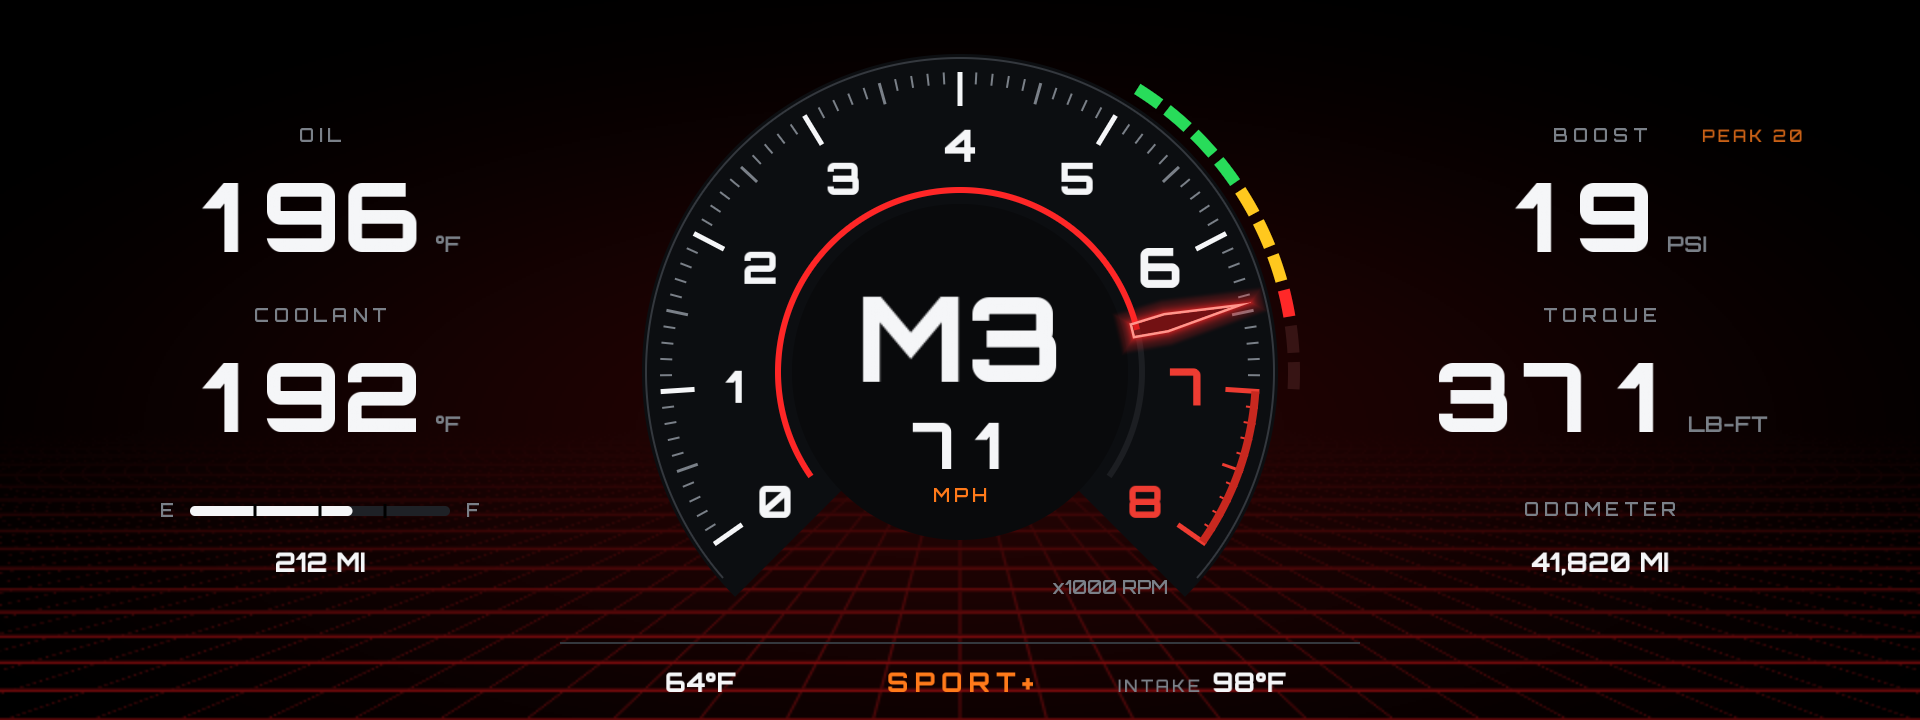
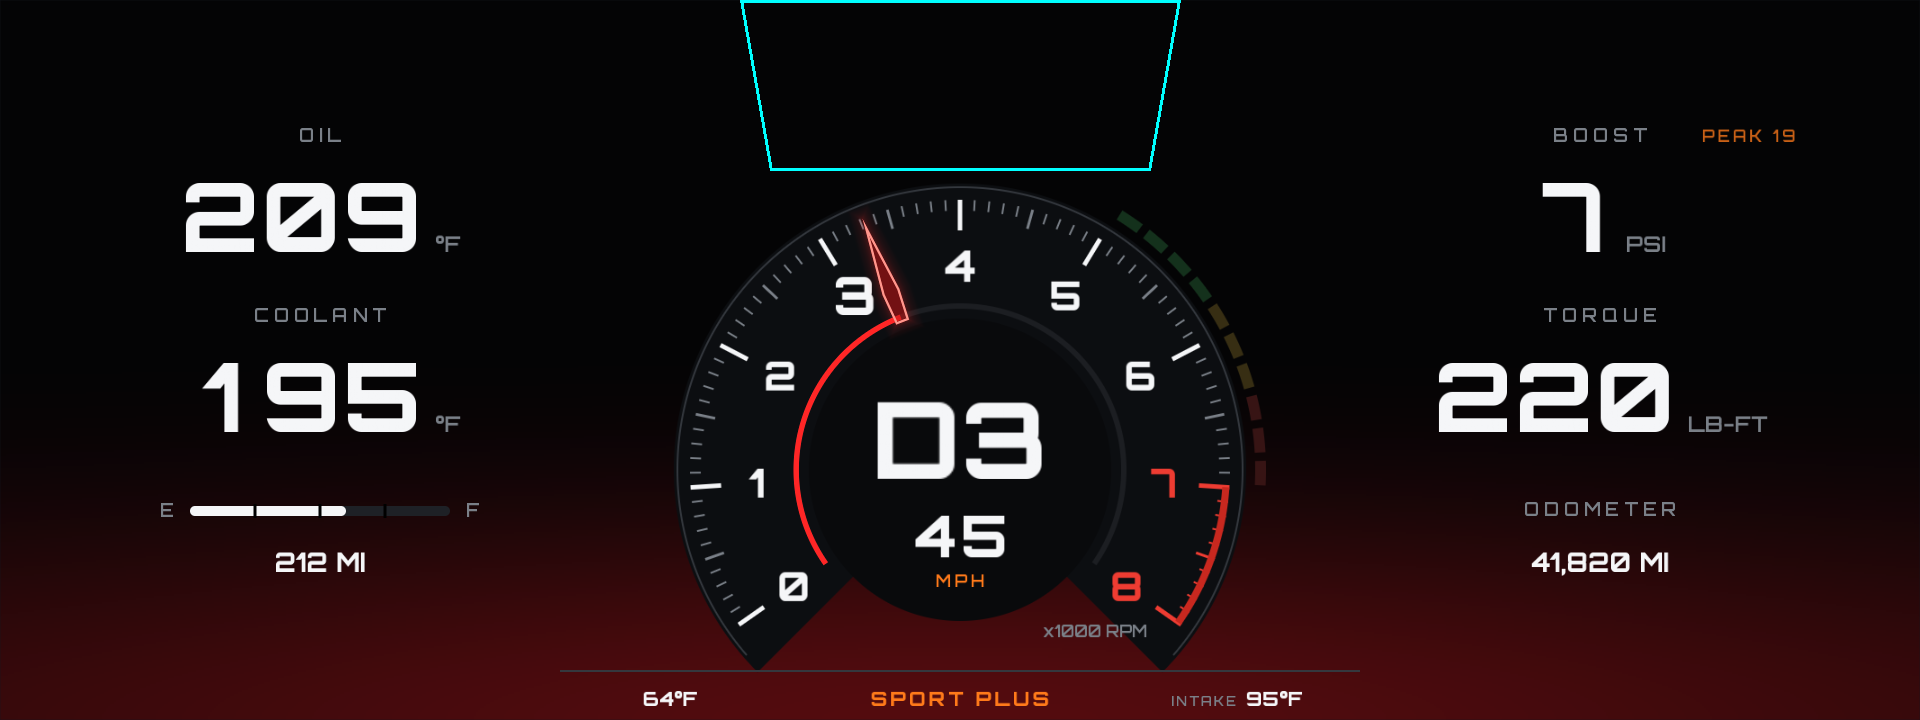
0.12.0: needles glide (renderer animations), shader by default; larger, lower tach clear of the camera; smaller bottom strip
Claude-Session: https://claude.ai/code/session_014iog3VUDnUppvMdVywrbBe

diff --git a/apps/mx_classic_cluster/cluster.js b/apps/mx_classic_cluster/cluster.js
@@ -35,6 +35,11 @@ const FPS = 30;
 const MIN_STEP_DEG = 0.1;
 const LCD_MIN_MS = 200;            // an LCD's text is redrawn at most 5 times a second
 const REDRAW_FPS = 5;              // redrawn mode: dial updates a second at most (each costs CPU)
+/* Smooth motion: the needle's turn (rotating layer) and the shader's u_v are sent as renderer
+ * animations - from where it is to where it is going over ANIM_MS - and the renderer plays them on
+ * the cluster's own clock, every frame. Before 0.12.0 each step was a set / uniform in the renderer's
+ * next flush, and a flush waits for that tick's pixel uploads: the needle moved in jerks. */
+const ANIM_MS = 100;
 const ROTATE_FPS = 15;             // rotating mode (arc): the lit arc / lights / numerals redrawn up to this often; tiny rectangles
 const ROTATE_MIN_DEG = 0.1;        // and the needle layer turned for a move of at least this
 const REDRAW_MIN_DEG = 0.5;        // and none for a smaller move
@@ -452,8 +457,11 @@ class ClassicCluster {
             const lv2 = A.numeralLevels(rpm, d.nums.length);
             const changed = [];
             lv2.forEach((k, i) => { if (k !== d.levels[i]) changed.push(i); });
-            // rotating mode: the needle layer turns every tick (30 a second), a message of a few bytes
-            if (d.needle && Math.abs(a - d.needleAt) >= ROTATE_MIN_DEG) { this.cr.set(d.needle, { rotate: round2(a) }); d.needleAt = a; this.sends++; }
+            // rotating mode: the needle layer glides to where it's going (a renderer animation, ANIM_MS)
+            if (d.needle && Math.abs(a - d.needleAt) >= ROTATE_MIN_DEG && now - (d.needleAnimAt || 0) >= ANIM_MS) {
+                this.glide(d.needle, 'rotate', [round2(d.needleAt)], [round2(a)]);
+                d.needleAt = a; d.needleAnimAt = now; this.sends++;
+            }
             if (this.mode === 'shader') {
                 this.dialState('tach', st, now);
                 if (changed.length && now - d.numAt >= 1000 / 10) {
@@ -500,6 +508,27 @@ class ClassicCluster {
         }
     }
 
+    /**
+     * Move a layer's property from `from` to `to` over ANIM_MS, played by the renderer. One animation
+     * per layer and property, replaced each time (the same number: "sending it again replaces it"), so
+     * a layer never collects more than its 16; the property is also set to `from` first, which is where
+     * it goes back to if an animation is ever dropped.
+     */
+    glide(ref, property, from, to, name) {
+        const cr = this.cr;
+        if (property === 'rotate') cr.set(ref, { rotate: from[0] });
+        else cr.uniform(ref, name, from);
+        const keys = '0:' + from.join(',') + ' ' + ANIM_MS + ':' + to.join(',');
+        this.anims = this.anims || {};
+        const k = ref + ':' + property, n = this.anims[k];
+        const l = cr.layers && cr.layers.get(ref);
+        if (n && l && l.anims && l.anims.has(n)) {
+            const m = Object.assign({}, l.anims.get(n), { keys });
+            l.anims.set(n, m);                       // so a re-publish plays the latest
+            cr._send(m);
+        } else this.anims[k] = cr.animate(ref, { property, name, keys, interp: 'linear' });
+    }
+
     /** A dial's moving parts to a new state: a uniform (shader), or changed rectangles (redrawn). */
     dialState(key, st, now) {
         const d = this.dials[key];
@@ -508,8 +537,12 @@ class ClassicCluster {
         const moved = !o || o.lv !== st.lv || ['a', 'b', 'c'].some((k) => Math.abs(o[k] - st[k]) >= MIN_STEP_DEG);
         if (!moved) return;
         if (this.mode === 'shader') {
-            d.st = st; this.sends++;
-            this.cr.uniform(d.fx, 'u_v', [round2(st.a), round2(st.b), st.lv, round2(st.c)]);
+            if (now - (d.animAt || 0) < ANIM_MS && (!o || o.lv === st.lv)) return;
+            const to = [round2(st.a), round2(st.b), st.lv, round2(st.c)];
+            // from where it is to where it goes; the shift lights' level (z) is not blended: the new one throughout
+            const from = d.uv ? [d.uv[0], d.uv[1], st.lv, d.uv[3]] : to;
+            this.glide(d.fx, 'uniform', from, to, 'u_v');
+            d.uv = to; d.st = st; d.animAt = now; this.sends++;
             return;
         }
         if (now - d.at < 1000 / REDRAW_FPS) return;

diff --git a/apps/mx_classic_cluster/arc.js b/apps/mx_classic_cluster/arc.js
@@ -25,7 +25,7 @@ let fonts, rgba;
 try { fonts = require('./kit/fonts'); ({ rgba } = require('./kit/canvas')); } catch (e) { fonts = require('../../kit/runtime/fonts'); ({ rgba } = require('../../kit/runtime/canvas')); }
 
 const RAD = Math.PI / 180;
-const DW = 720, DH = 720;                 // the dial image
+const DW = 720, DH = 600;                 // the dial image (nothing is drawn below DCY + 190)
 const DCX = 360, DCY = 372;               // its pivot
 const R = 300;                            // outer end of the ticks
 const R_NUM = 226;                        // numerals
@@ -50,7 +50,7 @@ const ORANGE = [255, 122, 26], WHITE = '#f5f6f8', DIM = '#7a8088', FAINT = '#343
  * pictures, stretched smaller by the renderer, bilinear) with the pivot NOTCH_CY down, which
  * clears the camera with the ticks and keeps the bottom clear of the strip.
  */
-const NOTCH_SCALE = 0.8, NOTCH_CY = 404;
+const NOTCH_SCALE = 0.9, NOTCH_CY = 470;   // 0.12.0: larger and lower than 0.11.4's 0.8 at 404 (still under the camera's edge)
 function arcLayout(dy, notch) {
     const y = dy || 0, k = notch ? NOTCH_SCALE : 1, cy = y + (notch ? NOTCH_CY : DCY);
     const sized = (w, h, px, py) => Object.assign({ x: Math.round(960 - px * k), y: Math.round(cy - py * k), w: Math.round(w * k), h: Math.round(h * k) },
@@ -61,7 +61,7 @@ function arcLayout(dy, notch) {
         centre: sized(300, 300, 150, 150),
         left: { x: 50, y: y + 96, w: 540, h: 500 },
         right: { x: 1920 - 50 - 540, y: y + 96, w: 540, h: 500 },
-        strip: { x: 560, y: y + 640, w: 800, h: 76 },
+        strip: { x: 560, y: y + 668, w: 800, h: 52 },
     };
 }
 
@@ -92,7 +92,7 @@ function arcFace(opts) {
     // the track the lit arc runs in, and the disc under the gear
     cv.arc(DCX, DCY, R_PROG - W_PROG / 2, R_PROG + W_PROG / 2, A0, A1, '#1c1e22');
     cv.arc(DCX, DCY, 0, R_INNER, 0, 360, '#090a0c');
-    cv.text('x1000 RPM', DCX + 150, DCY + 222, 18, DIM, { font: 'orbm', align: 'center', literal: true });
+    cv.text('x1000 RPM', DCX + 150, DCY + 186, 18, DIM, { font: 'orbm', align: 'center', literal: true });
     return cv;
 }
 
@@ -390,12 +390,18 @@ function drawRight(p, v) {
 
 /** The bottom strip. v: { outside, mode, intake (strings) } */
 function drawStrip(p, v) {
+    // 0.12.0: smaller (20 px, was 26) and the drive mode's cell wider (360 px), so "SPORT PLUS" fits;
+    // a mode name that still wouldn't is drawn smaller rather than cut
     p.cell('rule', { x: 0, y: 0, w: 800, h: 6 }, 'x', (cv) => cv.fillRect(0, 2, 800, 2, FAINT));
-    p.cell('out', { x: 0, y: 8, w: 270, h: 66 }, v.outside, (cv) => cv.text(v.outside, 140, 52, 26, WHITE, { font: 'orb', align: 'center', literal: true }));
-    p.cell('mode', { x: 270, y: 8, w: 260, h: 66 }, v.mode, (cv) => cv.text(v.mode, 400, 52, 26, ORANGE, { font: 'orb', align: 'center', literal: true, spacing: 6 }));
-    p.cell('iat', { x: 530, y: 8, w: 270, h: 66 }, v.intake, (cv) => {
-        cv.text('INTAKE', 640, 52, 16, DIM, { font: 'orbm', align: 'right', literal: true, spacing: 3 });
-        cv.text(v.intake, 652, 52, 26, WHITE, { font: 'orb', literal: true });
+    p.cell('out', { x: 0, y: 8, w: 220, h: 44 }, v.outside, (cv) => cv.text(v.outside, 110, 38, 20, WHITE, { font: 'orb', align: 'center', literal: true }));
+    p.cell('mode', { x: 220, y: 8, w: 360, h: 44 }, v.mode, (cv) => {
+        let size = 20;
+        while (size > 12 && cv.textWidth(v.mode, size, { font: 'orb', literal: true, spacing: 3 }) > 340) size -= 2;
+        cv.text(v.mode, 400, 38, size, ORANGE, { font: 'orb', align: 'center', literal: true, spacing: 3 });
+    });
+    p.cell('iat', { x: 580, y: 8, w: 220, h: 44 }, v.intake, (cv) => {
+        cv.text('INTAKE', 676, 38, 13, DIM, { font: 'orbm', align: 'right', literal: true, spacing: 2 });
+        cv.text(v.intake, 686, 38, 20, WHITE, { font: 'orb', literal: true });
     });
 }
 

diff --git a/apps/mx_classic_cluster/test.js b/apps/mx_classic_cluster/test.js
@@ -232,7 +232,9 @@ for (const st of ['tech']) {
         const [lx, ly] = top(340, a);                       // shift lights, red zone only (right side)
         if (a > 20 && lx > 740 && lx < 1180) assert(ly > 125, 'shift light under the camera');
     }
-    assert(N.cy + 222 * k < 640, 'the rpm label clears the strip');
+    assert(N.cy + 192 * k < N.strip.y, 'the rpm label clears the strip');
+    assert(N.dial.y + N.dial.h <= 720 && N.dial.y >= 0, 'the dial inside the panel');
+    assert(N.cy - A.R * k >= 190, 'ticks well below the camera');
     const F0 = A.arcLayout(0, false);
     assert.strictEqual(F0.scale, 1); assert(!F0.dial.iw, 'full size: no stretch');
 }
@@ -295,8 +297,8 @@ for (const st of ['tech']) {
     assert.deepStrictEqual(spec.settings.find((x) => x.key === 'style').options.map((o) => o[0]).sort(), ['arc', 'tech'], 'only the Arc and Tech styles');
     assert(!spec.settings.some((x) => x.key === 'illum'));
     assert(spec.config.dme.iat.length >= 1 && spec.signals['de.bmw.infrastructure.EnvironmentalInformation']._optional);
-    assert.strictEqual(spec.settings.find((x) => x.key === "needles").default, "redraw");
-    assert.deepStrictEqual(spec.settings.find((x) => x.key === 'needles').options.map((o) => o[0]), ['redraw', 'rotate', 'shader']);
+    assert.strictEqual(spec.settings.find((x) => x.key === "needles").default, "shader");
+    assert.deepStrictEqual(spec.settings.find((x) => x.key === 'needles').options.map((o) => o[0]), ['shader', 'rotate', 'redraw']);
     assert.strictEqual(spec.settings.find((x) => x.key === 'backdrop').default, 'full');
 }
 

diff --git a/README.md b/README.md
@@ -205,6 +205,15 @@ again, press the controller's MENU or HOME button, or hold the volume knob down 
 Preview on a PC (no SDK, nothing installable): `python3 kit/tools/build.py --preview-only mx_classic_cluster`,
 then `node kit/tools/preview.js dist/mx_classic_cluster preview wait=8 render`.
 
+## Smooth needles (0.12.0)
+
+The needles' motion is sent as **renderer animations**: about 10 times a second the app tells cluster-render
+"from here to there over 100 ms", and the renderer plays it on the cluster's own clock, every frame. Before,
+each step was a value in the renderer's next update, and an update waits for that moment's picture uploads, so
+the needles moved in jerks however fast the app sent them. *Shader* (now the default: the needle, the lit arc
+and the shift lights all glide) and *Rotating layer* use it; *Redrawn images* can't (the needle is pixels) and
+stays the fallback.
+
 ## Performance (Arc style)
 
 What the Arc style sends to the cluster while driving hard (a desk simulation: revs climbing 2,000 to 6,800
